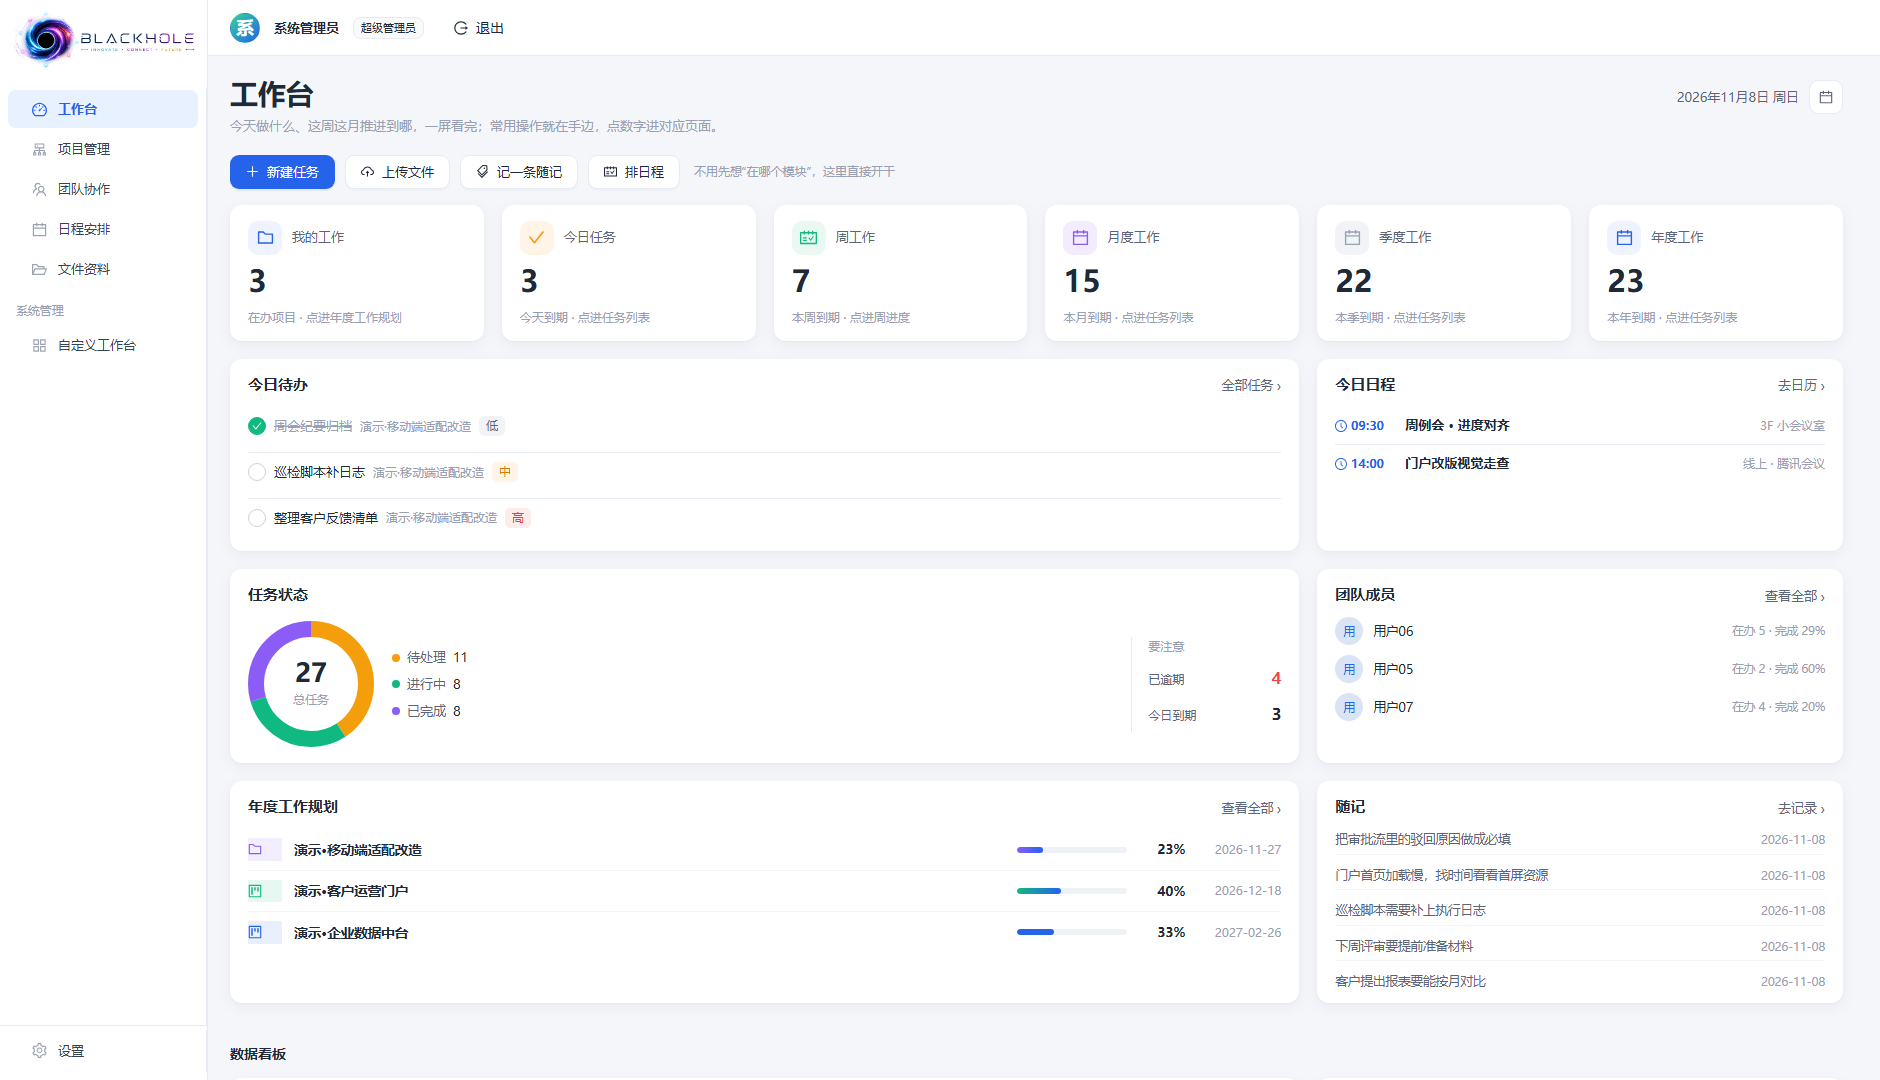
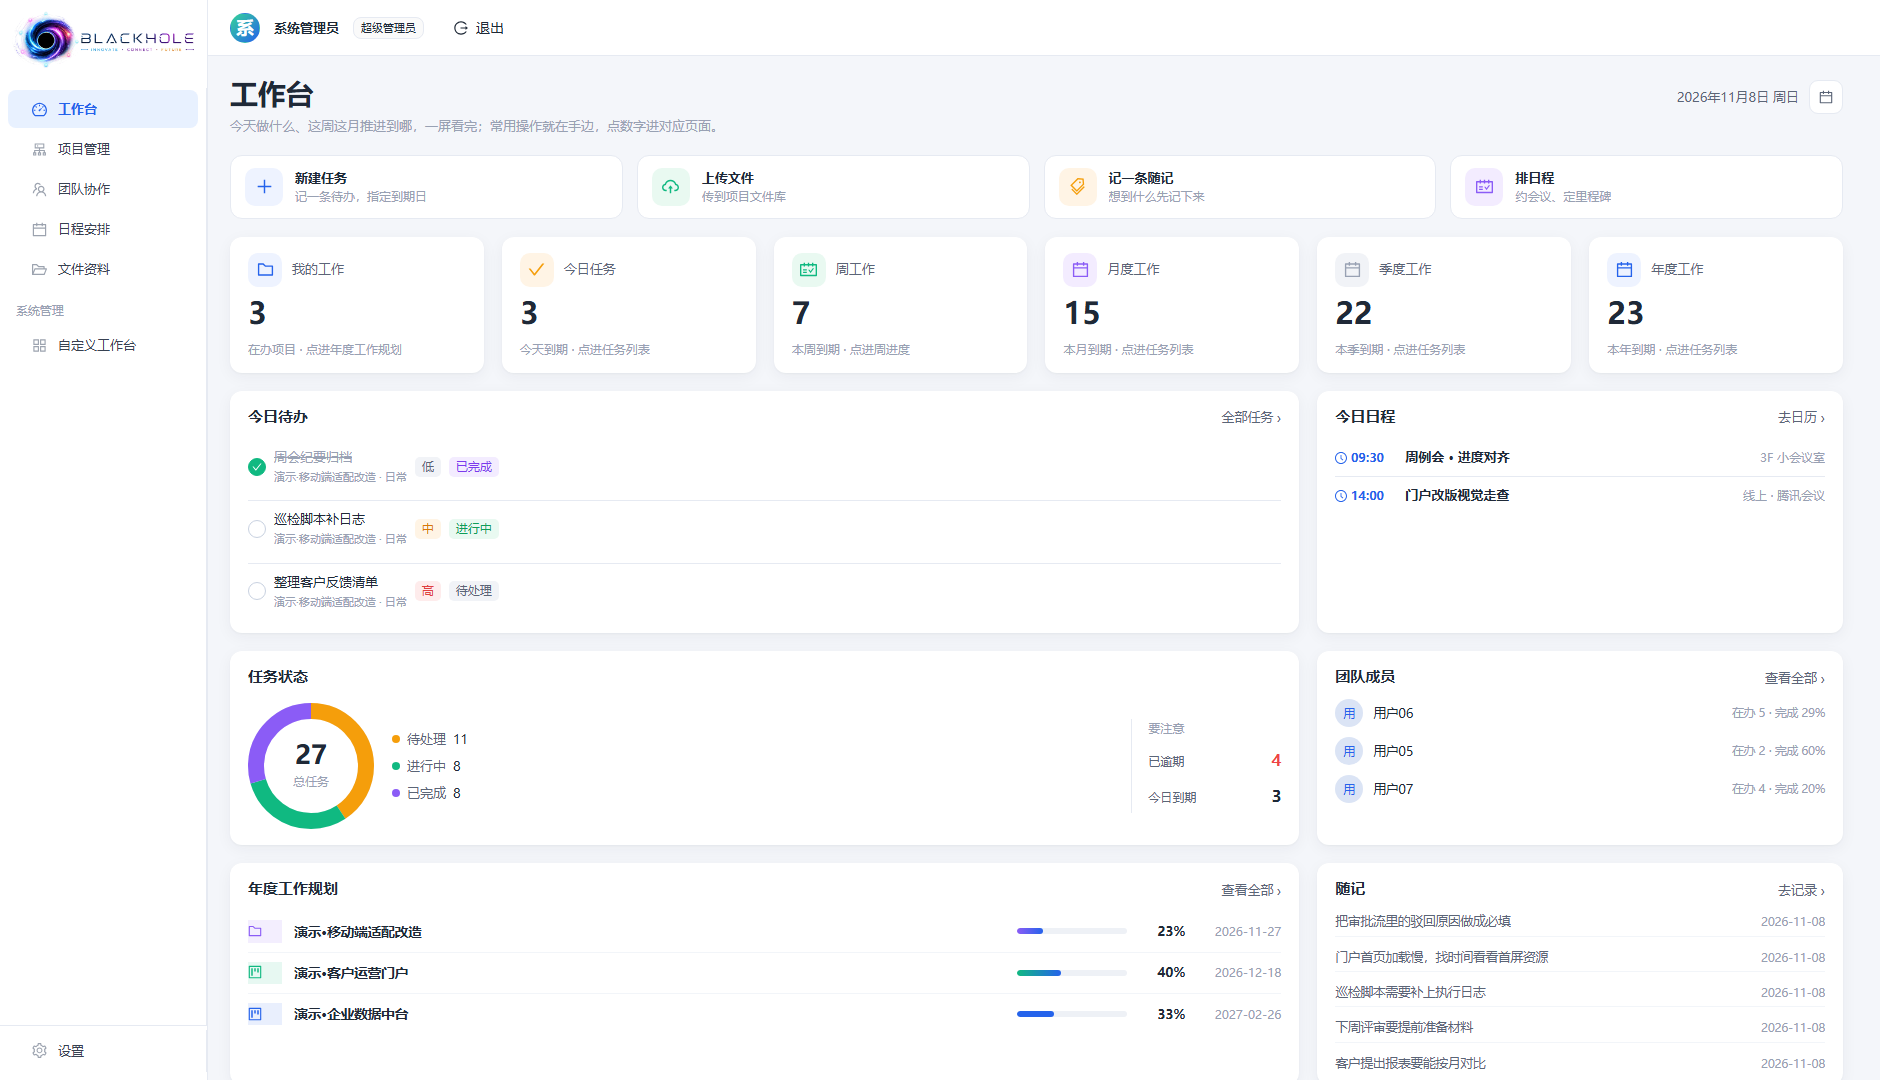
style(workbench): 快捷入口改成「图标+标题+描述」入口卡，待办行改两行式（D-26 续）
对照文章第三章 9 张大厂案例截图（CRM 工作台 / 企微 / 飞书制造工作台 / 飞书应用台）：
- 功能入口都是大卡（图标色块 + 标题 + 一句描述），不是一排小按钮 → 照做
- 待办行是「标题 + 副行（来源/分类） + 状态标签」两行式 → 照做，并把优先级、状态都标出来
- 案例里还有「我的常用可自定义」「KPI 带环比 Δ」：前者已有管理员端自定义工作台，后者
  需要历史快照数据，不做假数据，暂缓

实测：入口卡 4 个、待办 3 条（副行显示 项目·分类）、勾选往返、快捷新建弹窗全部正常

diff --git a/apps/web/src/pages/OverviewPage.tsx b/apps/web/src/pages/OverviewPage.tsx
@@ -168,25 +168,36 @@ export function OverviewPage() {
       key: 'task',
       icon: <PlusOutlined />,
       label: '新建任务',
-      primary: true,
+      desc: '记一条待办，指定到期日',
+      color: designVars.primary,
+      tone: '#eef3ff',
       onClick: () => setTaskModalOpen(true),
     },
     {
       key: 'file',
       icon: <CloudUploadOutlined />,
       label: '上传文件',
+      desc: '传到项目文件库',
+      color: designVars.green,
+      tone: '#e9f9f1',
       onClick: () => void navigate('/files'),
     },
     {
       key: 'idea',
       icon: <TagsOutlined />,
       label: '记一条随记',
+      desc: '想到什么先记下来',
+      color: designVars.orange,
+      tone: '#fff4e5',
       onClick: () => void navigate('/workspace'),
     },
     {
       key: 'meeting',
       icon: <ScheduleOutlined />,
       label: '排日程',
+      desc: '约会议、定里程碑',
+      color: designVars.purple,
+      tone: '#f3ecff',
       onClick: () => void navigate('/calendar'),
     },
   ];
@@ -198,19 +209,24 @@ export function OverviewPage() {
         subtitle="今天做什么、这周这月推进到哪，一屏看完；常用操作就在手边，点数字进对应页面。"
       />
 
+      {/* 快捷入口：按大厂案例做成"图标 + 标题 + 一句描述"的入口卡，不是一排小按钮 */}
       <div className="wb-quick-row">
         {quickActions.map((action) => (
-          <Button
+          <button
             key={action.key}
-            className="wb-quick-btn"
-            type={action.primary ? 'primary' : 'default'}
-            icon={action.icon}
+            type="button"
+            className="wb-quick-card"
             onClick={action.onClick}
           >
-            {action.label}
-          </Button>
+            <span className="wb-quick-icon" style={{ background: action.tone, color: action.color }}>
+              {action.icon}
+            </span>
+            <span className="wb-quick-text">
+              <span className="wb-quick-title">{action.label}</span>
+              <span className="wb-quick-desc">{action.desc}</span>
+            </span>
+          </button>
         ))}
-        <span className="wb-quick-hint">不用先想“在哪个模块”，这里直接开干</span>
       </div>
 
       <div className="wb-metric-row">
@@ -296,12 +312,20 @@ export function OverviewPage() {
                         >
                           {done ? <CheckOutlined /> : null}
                         </button>
-                        <span className="wb-todo-title" title={task.title}>
-                          {task.title}
+                        <span className="wb-todo-main">
+                          <span className="wb-todo-title" title={task.title}>
+                            {task.title}
+                          </span>
+                          <span className="wb-todo-sub">
+                            {task.projectName ?? '未挂项目'}
+                            {task.category ? ` · ${task.category}` : ''}
+                          </span>
                         </span>
-                        <span className="wb-todo-meta">{task.projectName ?? '未挂项目'}</span>
                         <ToneTag tone={STATUS_TONE[task.priority] ?? 'gray'}>
                           {task.priority === 'high' ? '高' : task.priority === 'medium' ? '中' : '低'}
+                        </ToneTag>
+                        <ToneTag tone={STATUS_TONE[task.status] ?? 'gray'}>
+                          {task.status === 'todo' ? '待处理' : task.status === 'doing' ? '进行中' : '已完成'}
                         </ToneTag>
                       </li>
                     );

diff --git a/apps/web/src/styles/global.css b/apps/web/src/styles/global.css
@@ -1808,23 +1808,62 @@ body {
 
 /* 快捷操作条 —— B 端工作台「重要功能突出」：常用动作不用先想它在哪个模块 */
 .wb-quick-row {
+  display: grid;
+  grid-template-columns: repeat(4, minmax(0, 1fr));
+  gap: 14px;
+  margin-bottom: 18px;
+}
+
+/* 入口卡：图标色块 + 标题 + 一句描述（照大厂案例的做法，比一排小按钮好认） */
+.wb-quick-card {
   display: flex;
   align-items: center;
-  gap: 10px;
-  flex-wrap: wrap;
-  margin-bottom: 16px;
+  gap: 12px;
+  padding: 12px 14px;
+  border: 1px solid var(--border);
+  border-radius: var(--radius);
+  background: var(--card);
+  text-align: left;
+  cursor: pointer;
+  transition: border-color 0.15s, box-shadow 0.15s, transform 0.15s;
 }
 
-.wb-quick-row .wb-quick-btn {
-  height: 34px;
-  border-radius: 9px;
+.wb-quick-card:hover {
+  border-color: #c9d7f5;
+  box-shadow: 0 6px 16px rgba(37, 99, 235, 0.08);
+  transform: translateY(-1px);
+}
+
+.wb-quick-icon {
+  display: inline-flex;
+  align-items: center;
+  justify-content: center;
+  width: 38px;
+  height: 38px;
+  flex: 0 0 auto;
+  border-radius: 10px;
+  font-size: 17px;
+}
+
+.wb-quick-text {
+  display: flex;
+  flex-direction: column;
+  gap: 2px;
+  min-width: 0;
+}
+
+.wb-quick-title {
   font-size: 13px;
+  font-weight: 600;
+  color: var(--text);
 }
 
-.wb-quick-hint {
-  margin-left: 4px;
+.wb-quick-desc {
   font-size: 12px;
   color: var(--muted);
+  overflow: hidden;
+  text-overflow: ellipsis;
+  white-space: nowrap;
 }
 
 /* 今日待办 —— 可以在工作台直接勾完成 */
@@ -1838,10 +1877,26 @@ body {
 
 .wb-todo-item {
   display: grid;
-  grid-template-columns: 20px minmax(0, 1fr) minmax(0, 180px) auto;
+  grid-template-columns: 20px minmax(0, 1fr) auto auto;
   gap: 10px;
   align-items: center;
-  padding: 9px 0;
+  padding: 8px 0;
+}
+
+/* 标题 + 副行（项目 · 分类），照案例的待办行做成两行 */
+.wb-todo-main {
+  display: flex;
+  flex-direction: column;
+  gap: 1px;
+  min-width: 0;
+}
+
+.wb-todo-sub {
+  overflow: hidden;
+  text-overflow: ellipsis;
+  white-space: nowrap;
+  font-size: 11px;
+  color: var(--muted);
 }
 
 .wb-todo-item + .wb-todo-item {
@@ -1885,15 +1940,6 @@ body {
 .wb-todo-item.is-done .wb-todo-title {
   color: var(--muted);
   text-decoration: line-through;
-}
-
-.wb-todo-meta {
-  overflow: hidden;
-  text-overflow: ellipsis;
-  white-space: nowrap;
-  font-size: 12px;
-  color: var(--muted);
-  text-align: right;
 }
 
 /* 今日日程 */
